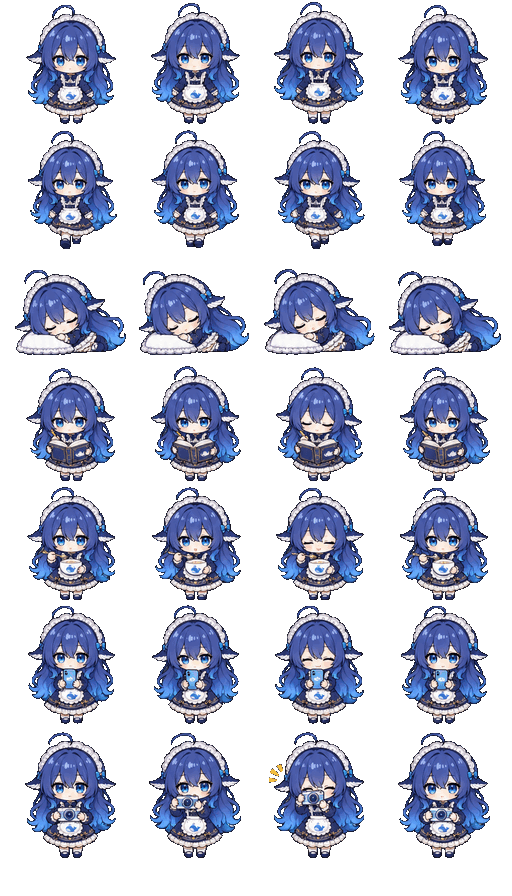
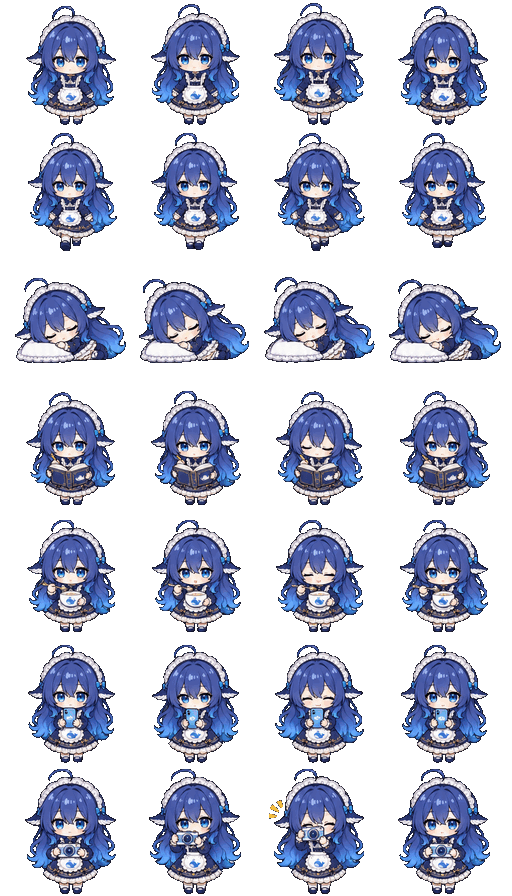
fix: 角色动效对齐、拍照冷却与地点同源；0.10.3

diff --git a/client.js b/client.js
@@ -95,28 +95,28 @@ window.__ModuleLoader__.load({
 [data-fl-lg][data-fl-src='plan']::before{background:#8b93a1;}
 [data-fl-lg][data-fl-src='adjust']::before{background:#e08a1e;}
 [data-fl-lg][data-fl-src='travel']::before{background:#4b88d1;}
-[data-fl-map]{position:relative;isolation:isolate;width:100%;aspect-ratio:16/9;min-height:360px;overflow:hidden;border:1px solid var(--fl-line);border-radius:18px;background:radial-gradient(circle at 25% 25%,rgba(112,190,158,.19),transparent 24%),radial-gradient(circle at 74% 72%,rgba(79,137,209,.16),transparent 27%),linear-gradient(145deg,rgba(246,242,225,.92),rgba(226,241,237,.96));}
+[data-fl-map]{position:relative;isolation:isolate;width:100%;aspect-ratio:16/9;min-height:360px;overflow:visible;border:1px solid var(--fl-line);border-radius:18px;background:radial-gradient(circle at 25% 25%,rgba(112,190,158,.19),transparent 24%),radial-gradient(circle at 74% 72%,rgba(79,137,209,.16),transparent 27%),linear-gradient(145deg,rgba(246,242,225,.92),rgba(226,241,237,.96));}
 @media(prefers-color-scheme:dark){[data-fl-map]{background:radial-gradient(circle at 25% 25%,rgba(64,145,115,.20),transparent 24%),radial-gradient(circle at 74% 72%,rgba(60,105,165,.20),transparent 27%),linear-gradient(145deg,#1d2725,#182129);}}
-[data-fl-map]::before{content:'';position:absolute;inset:0;z-index:-1;opacity:.28;background-image:linear-gradient(rgba(127,127,127,.12) 1px,transparent 1px),linear-gradient(90deg,rgba(127,127,127,.12) 1px,transparent 1px);background-size:32px 32px;}
+[data-fl-map]::before{content:'';position:absolute;inset:0;z-index:-1;opacity:.28;background-image:linear-gradient(rgba(127,127,127,.12) 1px,transparent 1px),linear-gradient(90deg,rgba(127,127,127,.12) 1px,transparent 1px);background-size:32px 32px;border-radius:inherit;}
 [data-fl-map-lines]{position:absolute;inset:0;width:100%;height:100%;overflow:visible;}
 [data-fl-map-lines] line{stroke:rgba(64,107,112,.34);stroke-width:.65;stroke-linecap:round;stroke-dasharray:1.4 1.4;vector-effect:non-scaling-stroke;}
 [data-fl-place]{position:absolute;transform:translate(-50%,-50%);display:flex;flex-direction:column;align-items:center;gap:3px;min-width:72px;padding:7px 9px;border:1px solid rgba(75,112,115,.24);border-radius:13px;background:rgba(255,255,255,.76);box-shadow:0 5px 18px rgba(24,61,63,.08);backdrop-filter:blur(7px);font-size:11px;text-align:center;}
 @media(prefers-color-scheme:dark){[data-fl-place]{background:rgba(24,31,35,.78);}}
 [data-fl-place][data-fl-active]{border-color:var(--fl-accent);box-shadow:0 0 0 3px var(--fl-accent-soft);}
 [data-fl-place-icon]{font-size:20px;line-height:1;}
-[data-fl-avatar]{position:absolute;z-index:3;transform:translate(-50%,-78%);transition:left 1.2s linear,top 1.2s linear;filter:drop-shadow(0 7px 5px rgba(25,52,58,.23));}
-[data-fl-avatar-motion]{position:relative;width:92px;height:92px;transform-origin:50% 100%;}
-[data-fl-avatar-sprite]{--fl-sprite-y:0px;width:92px;height:92px;background-color:transparent;background-image:var(--fl-avatar-image);background-size:368px 644px;background-position-x:0;background-position-y:var(--fl-sprite-y);background-repeat:no-repeat;animation:fl-sprite-4 2.2s linear infinite;}
-[data-fl-avatar-motion][data-behavior='walk'] [data-fl-avatar-sprite]{--fl-sprite-y:-92px;animation-duration:.62s;}
-[data-fl-avatar-motion][data-behavior='sleep'] [data-fl-avatar-sprite]{--fl-sprite-y:-184px;animation-duration:2.8s;}
-[data-fl-avatar-motion][data-behavior='study'] [data-fl-avatar-sprite]{--fl-sprite-y:-276px;animation-duration:1.7s;}
-[data-fl-avatar-motion][data-behavior='eat'] [data-fl-avatar-sprite]{--fl-sprite-y:-368px;animation-duration:1.25s;}
-[data-fl-avatar-motion][data-behavior='phone'] [data-fl-avatar-sprite]{--fl-sprite-y:-460px;animation-duration:2s;}
-[data-fl-avatar-motion][data-behavior='photo'] [data-fl-avatar-sprite]{--fl-sprite-y:-552px;animation-duration:1.6s;}
-[data-fl-avatar-bubble]{position:absolute;right:-11px;top:-10px;display:grid;place-items:center;width:31px;height:31px;border-radius:50%;background:Canvas;border:1px solid var(--fl-line);font-size:16px;box-shadow:0 4px 12px rgba(0,0,0,.12);}
-[data-fl-avatar-label]{position:absolute;left:50%;bottom:-21px;transform:translateX(-50%);white-space:nowrap;padding:2px 7px;border-radius:999px;background:rgba(16,66,68,.82);color:#fff;font-size:10px;box-shadow:0 3px 8px rgba(0,0,0,.14);}
+[data-fl-avatar]{position:absolute;z-index:3;transform:translate(-50%,calc(-100% - 30px));transition:left 1.2s linear,top 1.2s linear;filter:drop-shadow(0 7px 5px rgba(25,52,58,.23));}
+[data-fl-avatar-motion]{position:relative;width:80px;height:80px;transform-origin:50% 100%;}
+[data-fl-avatar-sprite]{--fl-sprite-y:0px;width:80px;height:80px;background-color:transparent;background-image:var(--fl-avatar-image);background-size:320px 560px;background-position-x:0;background-position-y:var(--fl-sprite-y);background-repeat:no-repeat;animation:fl-sprite-4 2.2s linear infinite;}
+[data-fl-avatar-motion][data-behavior='walk'] [data-fl-avatar-sprite]{--fl-sprite-y:-80px;animation-duration:.62s;}
+[data-fl-avatar-motion][data-behavior='sleep'] [data-fl-avatar-sprite]{--fl-sprite-y:-160px;animation-duration:2.8s;}
+[data-fl-avatar-motion][data-behavior='study'] [data-fl-avatar-sprite]{--fl-sprite-y:-240px;animation-duration:1.7s;}
+[data-fl-avatar-motion][data-behavior='eat'] [data-fl-avatar-sprite]{--fl-sprite-y:-320px;animation-duration:1.25s;}
+[data-fl-avatar-motion][data-behavior='phone'] [data-fl-avatar-sprite]{--fl-sprite-y:-400px;animation-duration:2s;}
+[data-fl-avatar-motion][data-behavior='photo'] [data-fl-avatar-sprite]{--fl-sprite-y:-480px;animation-duration:1.6s;}
+[data-fl-avatar-bubble]{position:absolute;right:-9px;top:-6px;display:grid;place-items:center;width:28px;height:28px;border-radius:50%;background:Canvas;border:1px solid var(--fl-line);font-size:15px;box-shadow:0 4px 12px rgba(0,0,0,.12);}
+[data-fl-avatar-label]{position:absolute;left:50%;top:calc(100% + 4px);transform:translateX(-50%);white-space:nowrap;padding:2px 7px;border-radius:999px;background:rgba(16,66,68,.82);color:#fff;font-size:10px;box-shadow:0 3px 8px rgba(0,0,0,.14);}
 [data-fl-world-cards]{display:grid;grid-template-columns:repeat(3,minmax(0,1fr));gap:8px;}
-@keyframes fl-sprite-4{0%,24.99%{background-position-x:0}25%,49.99%{background-position-x:-92px}50%,74.99%{background-position-x:-184px}75%,100%{background-position-x:-276px}}
+@keyframes fl-sprite-4{0%,24.99%{background-position-x:0}25%,49.99%{background-position-x:-80px}50%,74.99%{background-position-x:-160px}75%,100%{background-position-x:-240px}}
 @media(prefers-reduced-motion:reduce){[data-fl-avatar]{transition:none!important;}[data-fl-avatar-sprite]{animation:none!important;background-position-x:0!important;}}
 @media(max-width:720px){[data-fl-stats]{grid-template-columns:repeat(2,minmax(0,1fr));}[data-fl-world-cards]{grid-template-columns:1fr;}[data-fl-map]{min-height:430px;}[data-fl-table]{display:block;overflow-x:auto;}[data-fl-tl-time]{flex-basis:78px;}[data-fl-track],[data-fl-ticks]{flex-basis:48%;}}
 `

diff --git a/image.js b/image.js
@@ -336,11 +336,16 @@ async function fetchModels() {
 }
 
 let shooting = false
+// Cooldown belongs to deliberate shots, not internal retakes: retakes update image
+// mtimes, so deriving the gap from files would push the next shot back every time a
+// self-check fails. Track the start of the last deliberate shot instead.
+let lastShotAt = 0
 
 function shotBlocked(cfg) {
   const usage = todayUsage(cfg)
   if (usage.n >= cfg.每日上限) return `今天已经拍了 ${usage.n} 张，达到上限`
-  const waitMs = cfg.最短间隔秒 * 1000 - (Date.now() - usage.last)
+  const last = lastShotAt || usage.last
+  const waitMs = cfg.最短间隔秒 * 1000 - (Date.now() - last)
   if (waitMs > 0) return `刚拍过，再等 ${Math.ceil(waitMs / 1000)} 秒`
   return ''
 }
@@ -427,6 +432,7 @@ function registerRoutes(ctx) {
       if (blocked) return reply(res, 429, { ok: false, error: blocked })
       if (shooting) return reply(res, 409, { ok: false, error: '已有一张照片正在生成' })
       shooting = true
+      lastShotAt = Date.now()
       try {
         const expanded = await generatePrompt(ctx, findSession(ctx), cfg, {
           type: body.type || 'selfie',
@@ -517,6 +523,7 @@ export function registerImage(ctx) {
       if (blocked) return { ok: false, say: blocked }
       if (shooting) return { ok: false, say: '已经有一张照片正在生成，等它拍完' }
       shooting = true
+      lastShotAt = Date.now()
       try {
         const expanded = await generatePrompt(ctx, findSession(ctx), cfg, args)
         const useRef = String(args.type || 'selfie') !== 'scene' && cfg.用参考图

diff --git a/image-prompt.js b/image-prompt.js
@@ -122,7 +122,7 @@ export function buildElements(cfg, args, state = liveState()) {
   const type = String(args.type || 'selfie')
   const hint = String(args.hint || args.prompt || '').trim()
   const outfit = String(args.outfit || (type === 'selfie' ? state.outfit : '') || '').trim()
-  const location = String(args.location || '').trim() || locationHint(hint || state.what)
+  const location = String(args.location || '').trim() || state.location || locationHint(hint || state.what)
   const expression = String(args.expression || '').trim() || cfg.表情 || '自然的表情'
   return { type, hint, outfit, location, expression, state, clock: state.clock, light: state.light }
 }
@@ -133,7 +133,8 @@ export function templatePrompt(cfg, elements) {
   const r = rand(elements.hint + elements.location + elements.expression)
   const shotPool = shots[type] || shots.selfie
   const shot = shotPool[Math.floor(r() * shotPool.length) % shotPool.length]
-  const pool = propsByPlace[location] || propsByPlace['宿舍书桌']
+  const pool = propsByPlace[location]
+    || (/路上|门口|地铁|公交|街上/.test(location) ? propsByPlace['路上'] : propsByPlace['宿舍书桌'])
   const props = []
   while (props.length < Math.min(3, pool.length)) {
     const x = pool[Math.floor(r() * pool.length) % pool.length]

diff --git a/CHANGELOG.md b/CHANGELOG.md
@@ -1,5 +1,11 @@
 # 更新记录
 
+## 0.10.3
+
+- **角色动效对齐**：sprite 按内容段重新切分，每帧居中到 128×128，修掉切头和「下一行头顶」；角色站到地点卡片上方（不再盖住卡片），地图容器不再裁剪探头。
+- **拍照冷却修复**：最短间隔按「上次主动拍照的开始时间」算，自检重拍不再把下一次拍照的冷却往后推。
+- **相机地点同源**：`shoot` 的地点优先取 world 状态（含通勤路上），不再从 hint 文本反推；穿着、地点、时间和注入保持一致。
+
 ## 0.10.2
 
 - **咖啡店地点修复**：“去咖啡店/咖啡馆/咖啡厅”现在归入“校外 · 街上”，已有 v3 地图配置即使尚未保存新关键词也能正确识别，不再默认落回宿舍。
